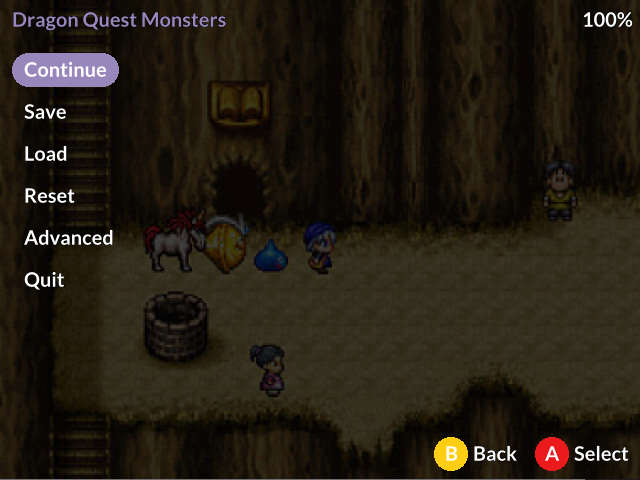
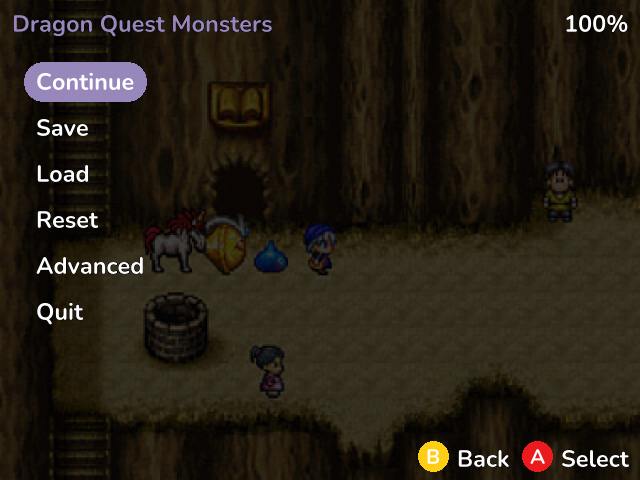
docs: update readme and screenshots

diff --git a/README.md b/README.md
@@ -5,19 +5,9 @@ Allium is a custom launcher for the Miyoo Mini and Miyoo Mini Plus handheld devi
 ![Allium's main menu](assets/screenshots/main-menu.png)
 ![Allium's ingame menu](assets/screenshots/ingame-menu.png)
 
-## Project Goals
-
-The goal of Allium is to replace MainUI (stock UI) with a faster and more user-friendly UI.
-
-### Goals
-- It just works
-- Fast
-- Clean UI
-- RetroArch (with Netplay)
-- Box art
-- Support running on both Miyoo Mini and Miyoo Mini Plus without changes
-
 ## Installation
+
+Allium only supports the Miyoo Mini Plus for now.
 
 Download the latest release and extract into your SD card. e.g. `E:/`.
 
@@ -30,27 +20,25 @@ The SD card layout should look like this:
 - Saves
 
 ## Features
-
-### Done
-- Supports stock SD card layout without configuration
+- Supports stock/Onion/DotUI SD card layout
+- Works without configuration
 - Box art (PNG, JPG, GIF, TGA, BMP)
-- Launch RetroArch for all supported cores
+- Recents list (sort by last played or playtime)
+- RetroArch for all supported cores
 - Battery indicator
-- Volume control
-- Brightness control (menu + volume up/down)
-- In-game menu (view game name, battery %, save, load, reset, access RetroArch menu, quit)
-- Automatic game save/resume when powering off/on
+- Volume & Brightness (menu + vol up/down) control
+- In-game menu (save, load, reset, access RetroArch menu, quit)
+- Automatic resume when powering off/on
 - Settings page
-    - Customize theme
-    - Change LCD settings
     - WiFi (IP Address, Telnet, FTP)
-- Recents list (sort by last played or most played)
+    - Change LCD settings
+    - Customize theme colours
 
-### Todo
+## Todo
 (roughly in order of priority)
-- Disk changer (.m3u support)
-- Settings page:
-    - Clock
+- Ingame menu disk changer
+- Ingame guide reader
+- Clock adjustment
 - WiFi stuff:
     - NTP
     - OTA update
@@ -69,8 +57,7 @@ The SD card layout should look like this:
     - Save current theme to file
 - File-system database to cache folder structure
 
-### Known bugs
-- Volume resets when RetroArch launches
+## Known bugs
 - Brightness in settings is not linked to menu+vol hotkey adjustments
 
 ## Development
